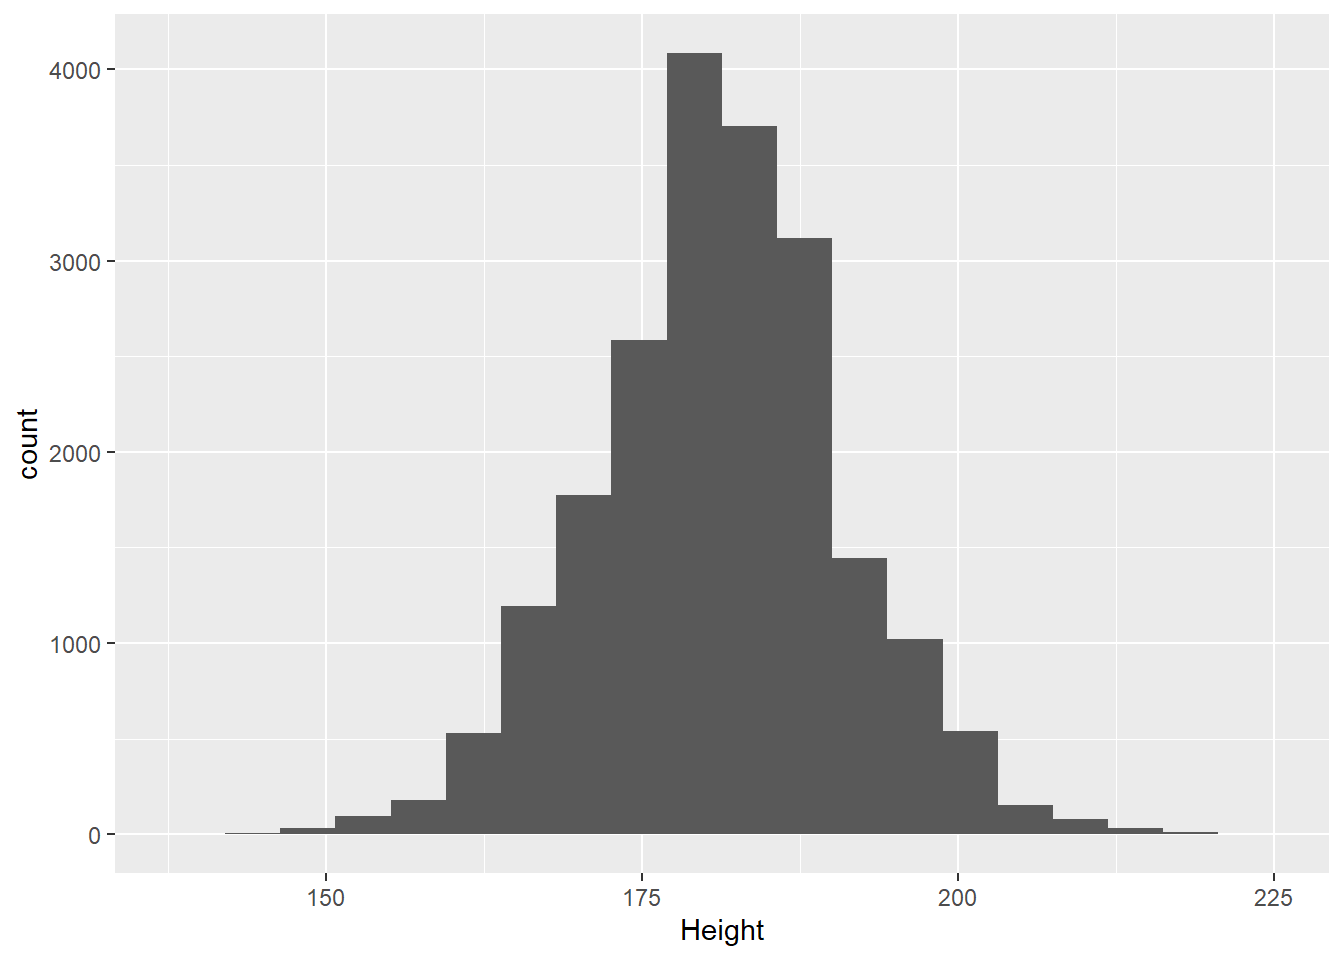
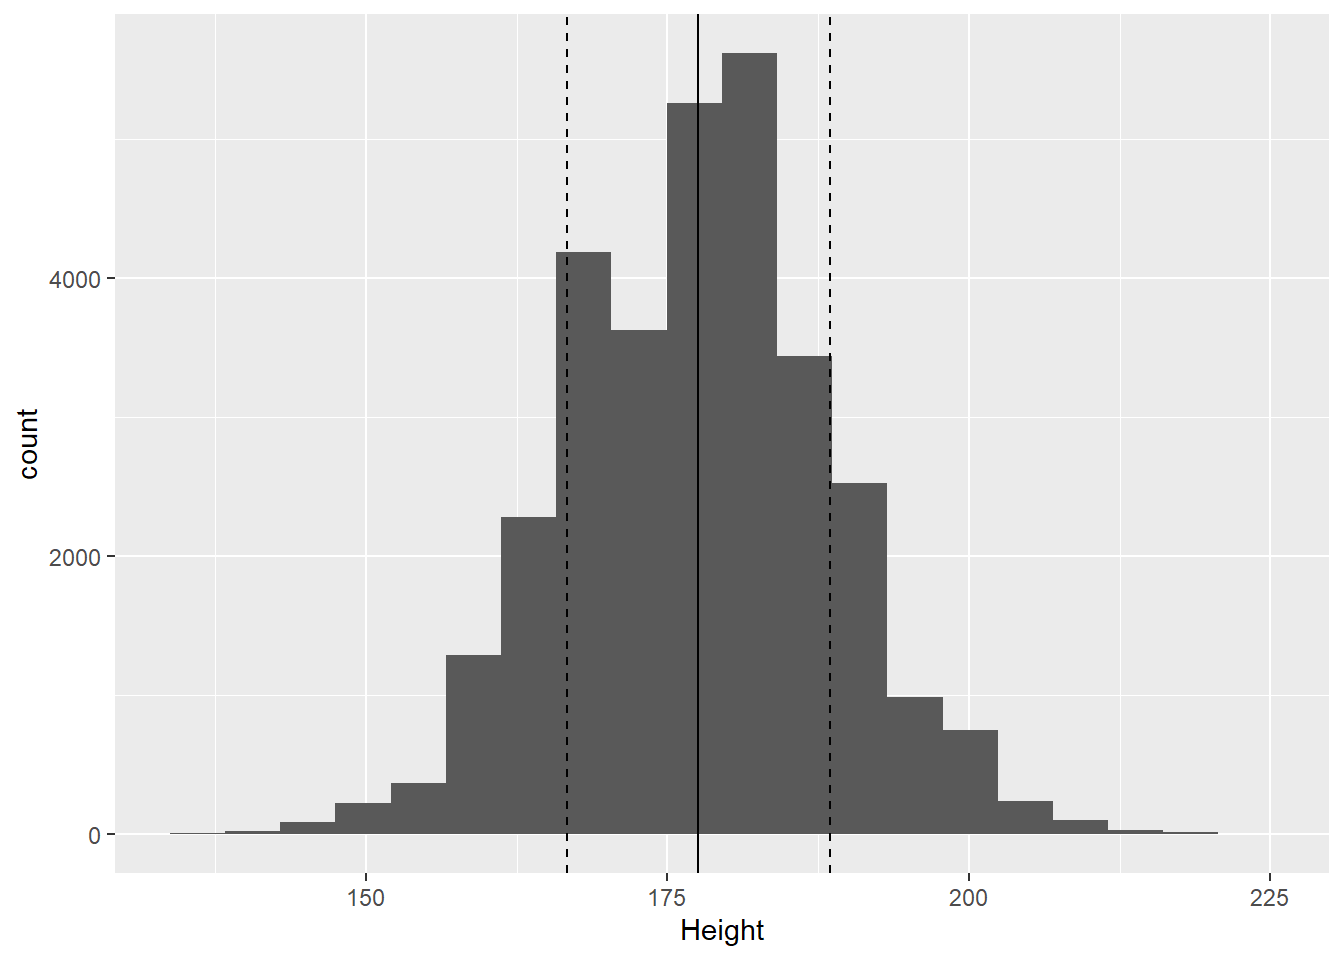
Add files via upload

diff --git a/env170/Summer2026/Week03/Lab04/02_OneVariable.html b/env170/Summer2026/Week03/Lab04/02_OneVariable.html
@@ -494,7 +494,7 @@ window.Quarto = {
 <pre><code>[1] 178</code></pre>
 </div>
 </div>
-<p>If we haven’t talked about it yet, the argument <code>na.rm</code> removes any NA values before running this function. This doesn’t actually delete them, but it just means that the function will skip over them. Some functions won’t work, or will produce unexpected results, if there are NA values present. Add this to the plot call above will remove the warning we’ve been getting:</p>
+<p>If we haven’t talked about it yet, the argument <code>na.rm</code> removes any NA values before running this function. This doesn’t actually delete them, but it just means that the function will skip over them. Some functions won’t work, or will produce unexpected results, if there are NA values present. Adding this to the <code>geom_histogram</code> function in plot we made above will remove the warning we’ve been getting:</p>
 <div class="cell">
 <div class="code-copy-outer-scaffold"><div class="sourceCode cell-code" id="cb11"><pre class="sourceCode r code-with-copy"><code class="sourceCode r"><span id="cb11-1"><a href="#cb11-1" aria-hidden="true" tabindex="-1"></a><span class="fu">ggplot</span>(olympics,<span class="fu">aes</span>(<span class="at">x=</span>Weight)) <span class="sc">+</span></span>
 <span id="cb11-2"><a href="#cb11-2" aria-hidden="true" tabindex="-1"></a>  <span class="fu">geom_histogram</span>(<span class="at">bins=</span><span class="dv">20</span>,<span class="at">na.rm=</span><span class="cn">TRUE</span>) </span></code></pre></div><button title="Copy to Clipboard" class="code-copy-button"><i class="bi"></i></button></div>
@@ -506,24 +506,36 @@ window.Quarto = {
 </div>
 </div>
 </div>
-<p><strong>Spread</strong></p>
-<p>A common measure of spread is variance, which is the average of the squared differences for each value from the mean value. Imagine if we only had</p>
-<p>To calulate variance, we use the <code>var</code> function:</p>
+<p>We can get the same effect globally by using the <code>drop_na</code> function at the start of the <code>ggplot</code> call. As written here, this will exclude all rows in the dataset where weight is NA :</p>
 <div class="cell">
-<div class="code-copy-outer-scaffold"><div class="sourceCode cell-code" id="cb12"><pre class="sourceCode r code-with-copy"><code class="sourceCode r"><span id="cb12-1"><a href="#cb12-1" aria-hidden="true" tabindex="-1"></a><span class="fu">var</span>(olympics<span class="sc">$</span>Weight,<span class="at">na.rm=</span><span class="cn">TRUE</span>)</span></code></pre></div><button title="Copy to Clipboard" class="code-copy-button"><i class="bi"></i></button></div>
+<div class="code-copy-outer-scaffold"><div class="sourceCode cell-code" id="cb12"><pre class="sourceCode r code-with-copy"><code class="sourceCode r"><span id="cb12-1"><a href="#cb12-1" aria-hidden="true" tabindex="-1"></a><span class="fu">ggplot</span>(<span class="fu">drop_na</span>(olympics,Weight),<span class="fu">aes</span>(<span class="at">x=</span>Weight)) <span class="sc">+</span></span>
+<span id="cb12-2"><a href="#cb12-2" aria-hidden="true" tabindex="-1"></a>  <span class="fu">geom_histogram</span>(<span class="at">bins=</span><span class="dv">20</span>) </span></code></pre></div><button title="Copy to Clipboard" class="code-copy-button"><i class="bi"></i></button></div>
+<div class="cell-output-display">
+<div>
+<figure class="figure">
+<p><img src="02_OneVariable_files/figure-html/unnamed-chunk-8-1.png" class="img-fluid figure-img" width="672"></p>
+</figure>
+</div>
+</div>
+</div>
+<p><strong>Spread</strong></p>
+<p>A common measure of spread is <strong>variance</strong>. Imagine if we were looking at the ages of children celebrating birthdays at a local bowling alley. During our survey, we observe three separate birthdays, and the cakes have 5, 8 and 9 candles, respectively. Our mean value would be 7.33333. Taking the difference between each of these might produce negative numbers (e.g., 7.33333 - 9); to get around this, we square each value. We then sum these values (8.66667), divide by the population size <em>n</em> (or, <a href="https://medium.com/data-science/bessels-correction-why-do-we-divide-by-n-1-instead-of-n-in-sample-variance-30b074503bd9">since it’s a sample</a>, n-1, which is 2), and just like that: we have the variance for ages of birthday celebrants at this bowling alley: 4.33333.</p>
+<p>To calculate variance, we use the <code>var</code> function. Let’s do this for athlete weights:</p>
+<div class="cell">
+<div class="code-copy-outer-scaffold"><div class="sourceCode cell-code" id="cb13"><pre class="sourceCode r code-with-copy"><code class="sourceCode r"><span id="cb13-1"><a href="#cb13-1" aria-hidden="true" tabindex="-1"></a><span class="fu">var</span>(olympics<span class="sc">$</span>Weight,<span class="at">na.rm=</span><span class="cn">TRUE</span>)</span></code></pre></div><button title="Copy to Clipboard" class="code-copy-button"><i class="bi"></i></button></div>
 <div class="cell-output cell-output-stdout">
 <pre><code>[1] 225.481</code></pre>
 </div>
 </div>
-<p>Variance is a relatively straightforward calculation to make, While this gives us a sense of how the values are spread, it is given in units different from the kilograms we were working in (here, it’s kg2, which is nonsensical). Variance is easy c</p>
-<p>Another metric most used when we want to understand spread in the same units is the standard deviation, which is just the square root of the variance. As seen in the darkest shaded area in the diagram above labeled <em>The standard normal distribution</em>, when we include the values up to 1 standard deviation above and below the mean, this works out to be the central most 68.2% of all values in the distribution.</p>
+<p>Variance is a reasonably straightforward calculation to make, and it has some particular virtues that make it useful for statistical testing. But while it gives us a sense of how the values are spread, it is given in units different from the kilograms we were working in (here, it’s squared kilograms). As such, it can sometime be hard to interpret intuitively.</p>
+<p>Another metric most used when we want to understand spread in the same units is the <strong>standard deviation</strong>, which is just the square root of the variance. As seen in the darkest shaded area in the diagram above labeled <em>The standard normal distribution</em>, when we include the values up to 1 standard deviation above and below the mean, this works out to be the central most 68.2% of all values in the distribution.</p>
 <p>We can access this value using the <code>sd</code> function, most often done in tandem with the mean:</p>
 <div class="cell">
-<div class="code-copy-outer-scaffold"><div class="sourceCode cell-code" id="cb14"><pre class="sourceCode r code-with-copy"><code class="sourceCode r"><span id="cb14-1"><a href="#cb14-1" aria-hidden="true" tabindex="-1"></a><span class="fu">mean</span>(olympics<span class="sc">$</span>Height,<span class="at">na.rm=</span><span class="cn">TRUE</span>)</span></code></pre></div><button title="Copy to Clipboard" class="code-copy-button"><i class="bi"></i></button></div>
+<div class="code-copy-outer-scaffold"><div class="sourceCode cell-code" id="cb15"><pre class="sourceCode r code-with-copy"><code class="sourceCode r"><span id="cb15-1"><a href="#cb15-1" aria-hidden="true" tabindex="-1"></a><span class="fu">mean</span>(olympics<span class="sc">$</span>Height,<span class="at">na.rm=</span><span class="cn">TRUE</span>)</span></code></pre></div><button title="Copy to Clipboard" class="code-copy-button"><i class="bi"></i></button></div>
 <div class="cell-output cell-output-stdout">
 <pre><code>[1] 177.5542</code></pre>
 </div>
-<div class="code-copy-outer-scaffold"><div class="sourceCode cell-code" id="cb16"><pre class="sourceCode r code-with-copy"><code class="sourceCode r"><span id="cb16-1"><a href="#cb16-1" aria-hidden="true" tabindex="-1"></a><span class="fu">sd</span>(olympics<span class="sc">$</span>Height,<span class="at">na.rm=</span><span class="cn">TRUE</span>)</span></code></pre></div><button title="Copy to Clipboard" class="code-copy-button"><i class="bi"></i></button></div>
+<div class="code-copy-outer-scaffold"><div class="sourceCode cell-code" id="cb17"><pre class="sourceCode r code-with-copy"><code class="sourceCode r"><span id="cb17-1"><a href="#cb17-1" aria-hidden="true" tabindex="-1"></a><span class="fu">sd</span>(olympics<span class="sc">$</span>Height,<span class="at">na.rm=</span><span class="cn">TRUE</span>)</span></code></pre></div><button title="Copy to Clipboard" class="code-copy-button"><i class="bi"></i></button></div>
 <div class="cell-output cell-output-stdout">
 <pre><code>[1] 10.89372</code></pre>
 </div>
@@ -538,18 +550,18 @@ window.Quarto = {
 <li><p>a dashed line at the upper standard deviation (mean + standard deviation)</p></li>
 </ul>
 <div class="cell">
-<div class="code-copy-outer-scaffold"><div class="sourceCode cell-code" id="cb18"><pre class="sourceCode r code-with-copy"><code class="sourceCode r"><span id="cb18-1"><a href="#cb18-1" aria-hidden="true" tabindex="-1"></a>meanHeight<span class="ot">&lt;-</span><span class="fu">mean</span>(olympics<span class="sc">$</span>Height,<span class="at">na.rm=</span><span class="cn">TRUE</span>)</span>
-<span id="cb18-2"><a href="#cb18-2" aria-hidden="true" tabindex="-1"></a>sdHeight<span class="ot">&lt;-</span><span class="fu">sd</span>(olympics<span class="sc">$</span>Height,<span class="at">na.rm=</span><span class="cn">TRUE</span>)</span>
-<span id="cb18-3"><a href="#cb18-3" aria-hidden="true" tabindex="-1"></a></span>
-<span id="cb18-4"><a href="#cb18-4" aria-hidden="true" tabindex="-1"></a><span class="fu">ggplot</span>(olympics,<span class="fu">aes</span>(<span class="at">x=</span>Height)) <span class="sc">+</span></span>
-<span id="cb18-5"><a href="#cb18-5" aria-hidden="true" tabindex="-1"></a>  <span class="fu">geom_histogram</span>(<span class="at">bins=</span><span class="dv">20</span>,<span class="at">na.rm=</span><span class="cn">TRUE</span>) <span class="sc">+</span></span>
-<span id="cb18-6"><a href="#cb18-6" aria-hidden="true" tabindex="-1"></a>  <span class="fu">geom_vline</span>(<span class="at">xintercept=</span>meanHeight) <span class="sc">+</span></span>
-<span id="cb18-7"><a href="#cb18-7" aria-hidden="true" tabindex="-1"></a>   <span class="fu">geom_vline</span>(<span class="at">xintercept=</span>meanHeight<span class="sc">-</span>sdHeight,<span class="at">linetype=</span><span class="dv">2</span>) <span class="sc">+</span></span>
-<span id="cb18-8"><a href="#cb18-8" aria-hidden="true" tabindex="-1"></a>  <span class="fu">geom_vline</span>(<span class="at">xintercept=</span>meanHeight<span class="sc">+</span>sdHeight,<span class="at">linetype=</span><span class="dv">2</span>)</span></code></pre></div><button title="Copy to Clipboard" class="code-copy-button"><i class="bi"></i></button></div>
+<div class="code-copy-outer-scaffold"><div class="sourceCode cell-code" id="cb19"><pre class="sourceCode r code-with-copy"><code class="sourceCode r"><span id="cb19-1"><a href="#cb19-1" aria-hidden="true" tabindex="-1"></a>meanHeight<span class="ot">&lt;-</span><span class="fu">mean</span>(olympics<span class="sc">$</span>Height,<span class="at">na.rm=</span><span class="cn">TRUE</span>)</span>
+<span id="cb19-2"><a href="#cb19-2" aria-hidden="true" tabindex="-1"></a>sdHeight<span class="ot">&lt;-</span><span class="fu">sd</span>(olympics<span class="sc">$</span>Height,<span class="at">na.rm=</span><span class="cn">TRUE</span>)</span>
+<span id="cb19-3"><a href="#cb19-3" aria-hidden="true" tabindex="-1"></a></span>
+<span id="cb19-4"><a href="#cb19-4" aria-hidden="true" tabindex="-1"></a><span class="fu">ggplot</span>(olympics,<span class="fu">aes</span>(<span class="at">x=</span>Height)) <span class="sc">+</span></span>
+<span id="cb19-5"><a href="#cb19-5" aria-hidden="true" tabindex="-1"></a>  <span class="fu">geom_histogram</span>(<span class="at">bins=</span><span class="dv">20</span>,<span class="at">na.rm=</span><span class="cn">TRUE</span>) <span class="sc">+</span></span>
+<span id="cb19-6"><a href="#cb19-6" aria-hidden="true" tabindex="-1"></a>  <span class="fu">geom_vline</span>(<span class="at">xintercept=</span>meanHeight) <span class="sc">+</span></span>
+<span id="cb19-7"><a href="#cb19-7" aria-hidden="true" tabindex="-1"></a>   <span class="fu">geom_vline</span>(<span class="at">xintercept=</span>meanHeight<span class="sc">-</span>sdHeight,<span class="at">linetype=</span><span class="dv">2</span>) <span class="sc">+</span></span>
+<span id="cb19-8"><a href="#cb19-8" aria-hidden="true" tabindex="-1"></a>  <span class="fu">geom_vline</span>(<span class="at">xintercept=</span>meanHeight<span class="sc">+</span>sdHeight,<span class="at">linetype=</span><span class="dv">2</span>)</span></code></pre></div><button title="Copy to Clipboard" class="code-copy-button"><i class="bi"></i></button></div>
 <div class="cell-output-display">
 <div>
 <figure class="figure">
-<p><img src="02_OneVariable_files/figure-html/unnamed-chunk-10-1.png" class="img-fluid figure-img" width="672"></p>
+<p><img src="02_OneVariable_files/figure-html/unnamed-chunk-11-1.png" class="img-fluid figure-img" width="672"></p>
 </figure>
 </div>
 </div>
@@ -573,14 +585,14 @@ Can you modify the code above to add blue dashed lines at two standard deviation
 <p>Another way to look at spread is the interquartile range, or IQR for short. This is the range covered by the half of the data closest to the median; in other words, the middle 50%. You’ve seen this visualized in a boxplot: the IQR is the distance between the uppermost and lowermost edges of the box part of the plot.</p>
 <p>The <code>IQR</code> function gives this distance:</p>
 <div class="cell">
-<div class="code-copy-outer-scaffold"><div class="sourceCode cell-code" id="cb19"><pre class="sourceCode r code-with-copy"><code class="sourceCode r"><span id="cb19-1"><a href="#cb19-1" aria-hidden="true" tabindex="-1"></a><span class="fu">IQR</span>(olympics<span class="sc">$</span>Height,<span class="at">na.rm=</span><span class="cn">TRUE</span>)</span></code></pre></div><button title="Copy to Clipboard" class="code-copy-button"><i class="bi"></i></button></div>
+<div class="code-copy-outer-scaffold"><div class="sourceCode cell-code" id="cb20"><pre class="sourceCode r code-with-copy"><code class="sourceCode r"><span id="cb20-1"><a href="#cb20-1" aria-hidden="true" tabindex="-1"></a><span class="fu">IQR</span>(olympics<span class="sc">$</span>Height,<span class="at">na.rm=</span><span class="cn">TRUE</span>)</span></code></pre></div><button title="Copy to Clipboard" class="code-copy-button"><i class="bi"></i></button></div>
 <div class="cell-output cell-output-stdout">
 <pre><code>[1] 15</code></pre>
 </div>
 </div>
 <p>This tells us that there is a difference of 15 centimeters among the middle 50% of olympic medalists in this table. However, if you wanted to get values at 0, 25, 50, 75, and 100%, you can use the <code>quantile</code> function:</p>
 <div class="cell">
-<div class="code-copy-outer-scaffold"><div class="sourceCode cell-code" id="cb21"><pre class="sourceCode r code-with-copy"><code class="sourceCode r"><span id="cb21-1"><a href="#cb21-1" aria-hidden="true" tabindex="-1"></a><span class="fu">quantile</span>(olympics<span class="sc">$</span>Height,<span class="at">na.rm=</span><span class="cn">TRUE</span>)</span></code></pre></div><button title="Copy to Clipboard" class="code-copy-button"><i class="bi"></i></button></div>
+<div class="code-copy-outer-scaffold"><div class="sourceCode cell-code" id="cb22"><pre class="sourceCode r code-with-copy"><code class="sourceCode r"><span id="cb22-1"><a href="#cb22-1" aria-hidden="true" tabindex="-1"></a><span class="fu">quantile</span>(olympics<span class="sc">$</span>Height,<span class="at">na.rm=</span><span class="cn">TRUE</span>)</span></code></pre></div><button title="Copy to Clipboard" class="code-copy-button"><i class="bi"></i></button></div>
 <div class="cell-output cell-output-stdout">
 <pre><code>  0%  25%  50%  75% 100% 
  136  170  178  185  223 </code></pre>
@@ -613,22 +625,10 @@ Can you modify the code above to add blue dashed lines at two standard deviation
 <p><strong>Skew</strong></p>
 <p>Skew indicates whether the data are evenly spread around the center or have values that are notably larger (positive skew) or smaller (negative skew). For example, if we look at heights among male Olympians:</p>
 <div class="cell">
-<div class="code-copy-outer-scaffold"><div class="sourceCode cell-code" id="cb23"><pre class="sourceCode r code-with-copy"><code class="sourceCode r"><span id="cb23-1"><a href="#cb23-1" aria-hidden="true" tabindex="-1"></a>olympicsM<span class="ot">&lt;-</span>olympics[olympics<span class="sc">$</span>Sex<span class="sc">==</span><span class="st">"M"</span>,]</span>
-<span id="cb23-2"><a href="#cb23-2" aria-hidden="true" tabindex="-1"></a></span>
-<span id="cb23-3"><a href="#cb23-3" aria-hidden="true" tabindex="-1"></a><span class="fu">ggplot</span>(olympicsM,<span class="fu">aes</span>(<span class="at">x=</span>Height)) <span class="sc">+</span></span>
-<span id="cb23-4"><a href="#cb23-4" aria-hidden="true" tabindex="-1"></a>  <span class="fu">geom_histogram</span>(<span class="at">bins=</span><span class="dv">20</span>,<span class="at">na.rm=</span><span class="cn">TRUE</span>) </span></code></pre></div><button title="Copy to Clipboard" class="code-copy-button"><i class="bi"></i></button></div>
-<div class="cell-output-display">
-<div>
-<figure class="figure">
-<p><img src="02_OneVariable_files/figure-html/unnamed-chunk-13-1.png" class="img-fluid figure-img" width="672"></p>
-</figure>
-</div>
-</div>
-</div>
-<p>We can see these are pretty evenly distributed around an average height value. If we look at weight, on the other hand:</p>
-<div class="cell">
-<div class="code-copy-outer-scaffold"><div class="sourceCode cell-code" id="cb24"><pre class="sourceCode r code-with-copy"><code class="sourceCode r"><span id="cb24-1"><a href="#cb24-1" aria-hidden="true" tabindex="-1"></a><span class="fu">ggplot</span>(olympicsM,<span class="fu">aes</span>(<span class="at">x=</span>Weight)) <span class="sc">+</span></span>
-<span id="cb24-2"><a href="#cb24-2" aria-hidden="true" tabindex="-1"></a>  <span class="fu">geom_histogram</span>(<span class="at">bins=</span><span class="dv">20</span>,<span class="at">na.rm=</span><span class="cn">TRUE</span>) </span></code></pre></div><button title="Copy to Clipboard" class="code-copy-button"><i class="bi"></i></button></div>
+<div class="code-copy-outer-scaffold"><div class="sourceCode cell-code" id="cb24"><pre class="sourceCode r code-with-copy"><code class="sourceCode r"><span id="cb24-1"><a href="#cb24-1" aria-hidden="true" tabindex="-1"></a>olympicsM<span class="ot">&lt;-</span>olympics[olympics<span class="sc">$</span>Sex<span class="sc">==</span><span class="st">"M"</span>,]</span>
+<span id="cb24-2"><a href="#cb24-2" aria-hidden="true" tabindex="-1"></a></span>
+<span id="cb24-3"><a href="#cb24-3" aria-hidden="true" tabindex="-1"></a><span class="fu">ggplot</span>(olympicsM,<span class="fu">aes</span>(<span class="at">x=</span>Height)) <span class="sc">+</span></span>
+<span id="cb24-4"><a href="#cb24-4" aria-hidden="true" tabindex="-1"></a>  <span class="fu">geom_histogram</span>(<span class="at">bins=</span><span class="dv">20</span>,<span class="at">na.rm=</span><span class="cn">TRUE</span>) </span></code></pre></div><button title="Copy to Clipboard" class="code-copy-button"><i class="bi"></i></button></div>
 <div class="cell-output-display">
 <div>
 <figure class="figure">
@@ -637,18 +637,30 @@ Can you modify the code above to add blue dashed lines at two standard deviation
 </div>
 </div>
 </div>
-<p>We see slightly positive skew in these values, indicated by the x-axis carrying on to the right. This skew can be further illustrated by plotting the mean and median on this plot. In a normal distribution, these two measures will be the same; however, the more skewed a distribution is, the greater the separation between them.</p>
+<p>We can see these are pretty evenly distributed around an average height value. If we look at weight, on the other hand:</p>
 <div class="cell">
-<div class="code-copy-outer-scaffold"><div class="sourceCode cell-code" id="cb25"><pre class="sourceCode r code-with-copy"><code class="sourceCode r"><span id="cb25-1"><a href="#cb25-1" aria-hidden="true" tabindex="-1"></a>meanWeight<span class="ot">&lt;-</span><span class="fu">mean</span>(olympicsM<span class="sc">$</span>Weight,<span class="at">na.rm=</span><span class="cn">TRUE</span>)</span>
-<span id="cb25-2"><a href="#cb25-2" aria-hidden="true" tabindex="-1"></a>medianWeight<span class="ot">&lt;-</span><span class="fu">median</span>(olympicsM<span class="sc">$</span>Weight,<span class="at">na.rm=</span><span class="cn">TRUE</span>)</span>
-<span id="cb25-3"><a href="#cb25-3" aria-hidden="true" tabindex="-1"></a><span class="fu">ggplot</span>(olympicsM,<span class="fu">aes</span>(<span class="at">x=</span>Weight)) <span class="sc">+</span></span>
-<span id="cb25-4"><a href="#cb25-4" aria-hidden="true" tabindex="-1"></a>  <span class="fu">geom_histogram</span>(<span class="at">bins=</span><span class="dv">20</span>,<span class="at">na.rm=</span><span class="cn">TRUE</span>) <span class="sc">+</span></span>
-<span id="cb25-5"><a href="#cb25-5" aria-hidden="true" tabindex="-1"></a>  <span class="fu">geom_vline</span>(<span class="at">xintercept=</span>meanWeight,<span class="at">color=</span><span class="st">"blue"</span>)<span class="sc">+</span></span>
-<span id="cb25-6"><a href="#cb25-6" aria-hidden="true" tabindex="-1"></a>  <span class="fu">geom_vline</span>(<span class="at">xintercept=</span>medianWeight,<span class="at">color=</span><span class="st">"red"</span>)</span></code></pre></div><button title="Copy to Clipboard" class="code-copy-button"><i class="bi"></i></button></div>
+<div class="code-copy-outer-scaffold"><div class="sourceCode cell-code" id="cb25"><pre class="sourceCode r code-with-copy"><code class="sourceCode r"><span id="cb25-1"><a href="#cb25-1" aria-hidden="true" tabindex="-1"></a><span class="fu">ggplot</span>(olympicsM,<span class="fu">aes</span>(<span class="at">x=</span>Weight)) <span class="sc">+</span></span>
+<span id="cb25-2"><a href="#cb25-2" aria-hidden="true" tabindex="-1"></a>  <span class="fu">geom_histogram</span>(<span class="at">bins=</span><span class="dv">20</span>,<span class="at">na.rm=</span><span class="cn">TRUE</span>) </span></code></pre></div><button title="Copy to Clipboard" class="code-copy-button"><i class="bi"></i></button></div>
 <div class="cell-output-display">
 <div>
 <figure class="figure">
 <p><img src="02_OneVariable_files/figure-html/unnamed-chunk-15-1.png" class="img-fluid figure-img" width="672"></p>
+</figure>
+</div>
+</div>
+</div>
+<p>We see slightly positive skew in these values, indicated by the x-axis carrying on to the right. This skew can be further illustrated by plotting the mean and median on this plot. In a normal distribution, these two measures will be the same; however, the more skewed a distribution is, the greater the separation between them.</p>
+<div class="cell">
+<div class="code-copy-outer-scaffold"><div class="sourceCode cell-code" id="cb26"><pre class="sourceCode r code-with-copy"><code class="sourceCode r"><span id="cb26-1"><a href="#cb26-1" aria-hidden="true" tabindex="-1"></a>meanWeight<span class="ot">&lt;-</span><span class="fu">mean</span>(olympicsM<span class="sc">$</span>Weight,<span class="at">na.rm=</span><span class="cn">TRUE</span>)</span>
+<span id="cb26-2"><a href="#cb26-2" aria-hidden="true" tabindex="-1"></a>medianWeight<span class="ot">&lt;-</span><span class="fu">median</span>(olympicsM<span class="sc">$</span>Weight,<span class="at">na.rm=</span><span class="cn">TRUE</span>)</span>
+<span id="cb26-3"><a href="#cb26-3" aria-hidden="true" tabindex="-1"></a><span class="fu">ggplot</span>(olympicsM,<span class="fu">aes</span>(<span class="at">x=</span>Weight)) <span class="sc">+</span></span>
+<span id="cb26-4"><a href="#cb26-4" aria-hidden="true" tabindex="-1"></a>  <span class="fu">geom_histogram</span>(<span class="at">bins=</span><span class="dv">20</span>,<span class="at">na.rm=</span><span class="cn">TRUE</span>) <span class="sc">+</span></span>
+<span id="cb26-5"><a href="#cb26-5" aria-hidden="true" tabindex="-1"></a>  <span class="fu">geom_vline</span>(<span class="at">xintercept=</span>meanWeight,<span class="at">color=</span><span class="st">"blue"</span>)<span class="sc">+</span></span>
+<span id="cb26-6"><a href="#cb26-6" aria-hidden="true" tabindex="-1"></a>  <span class="fu">geom_vline</span>(<span class="at">xintercept=</span>medianWeight,<span class="at">color=</span><span class="st">"red"</span>)</span></code></pre></div><button title="Copy to Clipboard" class="code-copy-button"><i class="bi"></i></button></div>
+<div class="cell-output-display">
+<div>
+<figure class="figure">
+<p><img src="02_OneVariable_files/figure-html/unnamed-chunk-16-1.png" class="img-fluid figure-img" width="672"></p>
 </figure>
 </div>
 </div>
@@ -659,16 +671,16 @@ Can you modify the code above to add blue dashed lines at two standard deviation
 <p>One goal of an exploratory data analysis is to find patterns that might inform on a question , or prompt new questions. Let’s</p>
 <p>This time, we’ll examine the data for female Olympic athletes:</p>
 <div class="cell">
-<div class="code-copy-outer-scaffold"><div class="sourceCode cell-code" id="cb26"><pre class="sourceCode r code-with-copy"><code class="sourceCode r"><span id="cb26-1"><a href="#cb26-1" aria-hidden="true" tabindex="-1"></a>olympicsF<span class="ot">&lt;-</span>olympics[olympics<span class="sc">$</span>Sex<span class="sc">==</span><span class="st">"F"</span>,]</span></code></pre></div><button title="Copy to Clipboard" class="code-copy-button"><i class="bi"></i></button></div>
+<div class="code-copy-outer-scaffold"><div class="sourceCode cell-code" id="cb27"><pre class="sourceCode r code-with-copy"><code class="sourceCode r"><span id="cb27-1"><a href="#cb27-1" aria-hidden="true" tabindex="-1"></a>olympicsF<span class="ot">&lt;-</span>olympics[olympics<span class="sc">$</span>Sex<span class="sc">==</span><span class="st">"F"</span>,]</span></code></pre></div><button title="Copy to Clipboard" class="code-copy-button"><i class="bi"></i></button></div>
 </div>
 <p>Height can be an <a href="https://en.wikipedia.org/wiki/Height_in_sports">important factor in sports performance</a>. Olympic gymnasts, for example, are often noted for their short stature; shorter athletes have a lower center of gravity, which can help when performing acrobatic elements. Are Olympic gymnasts shorter on average? We can answer this with by subsetting our data to just female gymnasts and taking a quick look at the descriptive statistics:</p>
 <div class="cell">
-<div class="code-copy-outer-scaffold"><div class="sourceCode cell-code" id="cb27"><pre class="sourceCode r code-with-copy"><code class="sourceCode r"><span id="cb27-1"><a href="#cb27-1" aria-hidden="true" tabindex="-1"></a>olympicsFGym<span class="ot">&lt;-</span>olympicsF[olympicsF<span class="sc">$</span>Sport<span class="sc">==</span><span class="st">"Gymnastics"</span>,]</span>
-<span id="cb27-2"><a href="#cb27-2" aria-hidden="true" tabindex="-1"></a><span class="fu">mean</span>(olympicsFGym<span class="sc">$</span>Height,<span class="at">na.rm=</span><span class="cn">TRUE</span>)</span></code></pre></div><button title="Copy to Clipboard" class="code-copy-button"><i class="bi"></i></button></div>
+<div class="code-copy-outer-scaffold"><div class="sourceCode cell-code" id="cb28"><pre class="sourceCode r code-with-copy"><code class="sourceCode r"><span id="cb28-1"><a href="#cb28-1" aria-hidden="true" tabindex="-1"></a>olympicsFGym<span class="ot">&lt;-</span>olympicsF[olympicsF<span class="sc">$</span>Sport<span class="sc">==</span><span class="st">"Gymnastics"</span>,]</span>
+<span id="cb28-2"><a href="#cb28-2" aria-hidden="true" tabindex="-1"></a><span class="fu">mean</span>(olympicsFGym<span class="sc">$</span>Height,<span class="at">na.rm=</span><span class="cn">TRUE</span>)</span></code></pre></div><button title="Copy to Clipboard" class="code-copy-button"><i class="bi"></i></button></div>
 <div class="cell-output cell-output-stdout">
 <pre><code>[1] 155.0744</code></pre>
 </div>
-<div class="code-copy-outer-scaffold"><div class="sourceCode cell-code" id="cb29"><pre class="sourceCode r code-with-copy"><code class="sourceCode r"><span id="cb29-1"><a href="#cb29-1" aria-hidden="true" tabindex="-1"></a><span class="fu">sd</span>(olympicsFGym<span class="sc">$</span>Height,<span class="at">na.rm=</span><span class="cn">TRUE</span>)</span></code></pre></div><button title="Copy to Clipboard" class="code-copy-button"><i class="bi"></i></button></div>
+<div class="code-copy-outer-scaffold"><div class="sourceCode cell-code" id="cb30"><pre class="sourceCode r code-with-copy"><code class="sourceCode r"><span id="cb30-1"><a href="#cb30-1" aria-hidden="true" tabindex="-1"></a><span class="fu">sd</span>(olympicsFGym<span class="sc">$</span>Height,<span class="at">na.rm=</span><span class="cn">TRUE</span>)</span></code></pre></div><button title="Copy to Clipboard" class="code-copy-button"><i class="bi"></i></button></div>
 <div class="cell-output cell-output-stdout">
 <pre><code>[1] 7.093379</code></pre>
 </div>
@@ -676,31 +688,31 @@ Can you modify the code above to add blue dashed lines at two standard deviation
 <p>This mean value is below the global average (~161.5 cm), suggesting that, overall, female Olympic gymnasts are generally shorter than the wider population. We also see that the standard deviation here is 7 cms, suggesting that 68.3% fall within a range roughly between 148 and 162 cm.</p>
 <p>How does this compare to other sports? For basketball, elite athletes tend to be taller than average. Does this bear out in the data?</p>
 <div class="cell">
-<div class="code-copy-outer-scaffold"><div class="sourceCode cell-code" id="cb31"><pre class="sourceCode r code-with-copy"><code class="sourceCode r"><span id="cb31-1"><a href="#cb31-1" aria-hidden="true" tabindex="-1"></a>olympicsFBball<span class="ot">&lt;-</span>olympicsF[olympicsF<span class="sc">$</span>Sport<span class="sc">==</span><span class="st">"Basketball"</span>,]</span>
-<span id="cb31-2"><a href="#cb31-2" aria-hidden="true" tabindex="-1"></a><span class="fu">mean</span>(olympicsFBball<span class="sc">$</span>Height,<span class="at">na.rm=</span><span class="cn">TRUE</span>)</span></code></pre></div><button title="Copy to Clipboard" class="code-copy-button"><i class="bi"></i></button></div>
+<div class="code-copy-outer-scaffold"><div class="sourceCode cell-code" id="cb32"><pre class="sourceCode r code-with-copy"><code class="sourceCode r"><span id="cb32-1"><a href="#cb32-1" aria-hidden="true" tabindex="-1"></a>olympicsFBball<span class="ot">&lt;-</span>olympicsF[olympicsF<span class="sc">$</span>Sport<span class="sc">==</span><span class="st">"Basketball"</span>,]</span>
+<span id="cb32-2"><a href="#cb32-2" aria-hidden="true" tabindex="-1"></a><span class="fu">mean</span>(olympicsFBball<span class="sc">$</span>Height,<span class="at">na.rm=</span><span class="cn">TRUE</span>)</span></code></pre></div><button title="Copy to Clipboard" class="code-copy-button"><i class="bi"></i></button></div>
 <div class="cell-output cell-output-stdout">
 <pre><code>[1] 183.0102</code></pre>
 </div>
-<div class="code-copy-outer-scaffold"><div class="sourceCode cell-code" id="cb33"><pre class="sourceCode r code-with-copy"><code class="sourceCode r"><span id="cb33-1"><a href="#cb33-1" aria-hidden="true" tabindex="-1"></a><span class="fu">sd</span>(olympicsFBball<span class="sc">$</span>Height,<span class="at">na.rm=</span><span class="cn">TRUE</span>)</span></code></pre></div><button title="Copy to Clipboard" class="code-copy-button"><i class="bi"></i></button></div>
+<div class="code-copy-outer-scaffold"><div class="sourceCode cell-code" id="cb34"><pre class="sourceCode r code-with-copy"><code class="sourceCode r"><span id="cb34-1"><a href="#cb34-1" aria-hidden="true" tabindex="-1"></a><span class="fu">sd</span>(olympicsFBball<span class="sc">$</span>Height,<span class="at">na.rm=</span><span class="cn">TRUE</span>)</span></code></pre></div><button title="Copy to Clipboard" class="code-copy-button"><i class="bi"></i></button></div>
 <div class="cell-output cell-output-stdout">
 <pre><code>[1] 9.677136</code></pre>
 </div>
 </div>
-<p>As we would expect, most Olympic basketball players are taller on average. However, the distribution of heights among basketball players covers a wider range than that of gymnasts, suggesting that, at least in our sample, there is a wider range of heights among them.</p>
-<p>To compare the two sports, since we’ve already created two subsets, we can</p>
+<p>As we would expect, most Olympic basketball players are taller on average. However, the distribution of heights among basketball players covers a wider range than that of gymnasts.</p>
+<p>To compare the two sports visually, since we’ve already created two subsets, we can plot these as individual histogram geoms within a <code>ggplot</code> call:</p>
 <div class="cell">
-<div class="code-copy-outer-scaffold"><div class="sourceCode cell-code" id="cb35"><pre class="sourceCode r code-with-copy"><code class="sourceCode r"><span id="cb35-1"><a href="#cb35-1" aria-hidden="true" tabindex="-1"></a><span class="fu">ggplot</span>()<span class="sc">+</span></span>
-<span id="cb35-2"><a href="#cb35-2" aria-hidden="true" tabindex="-1"></a>  <span class="fu">geom_histogram</span>(<span class="at">data=</span>olympicsFGym,<span class="fu">aes</span>(<span class="at">x=</span>Height),<span class="at">na.rm=</span><span class="cn">TRUE</span>,<span class="at">fill=</span><span class="st">"magenta"</span>,<span class="at">alpha=</span><span class="fl">0.5</span>,<span class="at">binwidth=</span><span class="dv">1</span>) <span class="sc">+</span></span>
-<span id="cb35-3"><a href="#cb35-3" aria-hidden="true" tabindex="-1"></a>  <span class="fu">geom_histogram</span>(<span class="at">data=</span>olympicsFBball,<span class="fu">aes</span>(<span class="at">x=</span>Height),<span class="at">na.rm=</span><span class="cn">TRUE</span>,<span class="at">fill=</span><span class="st">"darkgreen"</span>,<span class="at">alpha=</span><span class="fl">0.5</span>,<span class="at">binwidth=</span><span class="dv">1</span>) </span></code></pre></div><button title="Copy to Clipboard" class="code-copy-button"><i class="bi"></i></button></div>
+<div class="code-copy-outer-scaffold"><div class="sourceCode cell-code" id="cb36"><pre class="sourceCode r code-with-copy"><code class="sourceCode r"><span id="cb36-1"><a href="#cb36-1" aria-hidden="true" tabindex="-1"></a><span class="fu">ggplot</span>()<span class="sc">+</span></span>
+<span id="cb36-2"><a href="#cb36-2" aria-hidden="true" tabindex="-1"></a>  <span class="fu">geom_histogram</span>(<span class="at">data=</span>olympicsFGym,<span class="fu">aes</span>(<span class="at">x=</span>Height),<span class="at">na.rm=</span><span class="cn">TRUE</span>,<span class="at">fill=</span><span class="st">"magenta"</span>,<span class="at">alpha=</span><span class="fl">0.5</span>,<span class="at">binwidth=</span><span class="dv">1</span>) <span class="sc">+</span></span>
+<span id="cb36-3"><a href="#cb36-3" aria-hidden="true" tabindex="-1"></a>  <span class="fu">geom_histogram</span>(<span class="at">data=</span>olympicsFBball,<span class="fu">aes</span>(<span class="at">x=</span>Height),<span class="at">na.rm=</span><span class="cn">TRUE</span>,<span class="at">fill=</span><span class="st">"darkgreen"</span>,<span class="at">alpha=</span><span class="fl">0.5</span>,<span class="at">binwidth=</span><span class="dv">1</span>) </span></code></pre></div><button title="Copy to Clipboard" class="code-copy-button"><i class="bi"></i></button></div>
 <div class="cell-output-display">
 <div>
 <figure class="figure">
-<p><img src="02_OneVariable_files/figure-html/unnamed-chunk-19-1.png" class="img-fluid figure-img" width="672"></p>
+<p><img src="02_OneVariable_files/figure-html/unnamed-chunk-20-1.png" class="img-fluid figure-img" width="672"></p>
 </figure>
 </div>
 </div>
 </div>
-<p>This might be explained by differences in the range of heights among participating nations, or that being close to a specific height is not as</p>
+<p>Here, we’ve used the alpha argument to make the bars semi transparent. We can see in the histograms that basketball players are both taller overall and have a wider range of heights than gymnasts.</p>
 <div class="callout callout-style-default callout-tip callout-titled">
 <div class="callout-header d-flex align-content-center">
 <div class="callout-icon-container">

diff --git a/env170/Summer2026/Week03/Lab04/01_WhyDoEDA.html b/env170/Summer2026/Week03/Lab04/01_WhyDoEDA.html
@@ -494,7 +494,7 @@ dbl (4): Age, Height, Weight, Year
 </div>
 </div>
 </div>
-<p>Now the medals are re-ordered based on their frequency, but this order doesn’t make sense with respect to the Gold &gt; Silver &gt; Bronze ordering inherent in Olympic medals. To deal with this, we can use the <code>fct_relevel</code> function.</p>
+<p>Now the medals are re-ordered based on their frequency, but this order doesn’t make sense with respect to the Gold &gt; Silver &gt; Bronze ordering inherent in Olympic medals (unless you’re thinking about <a href="https://www.olympics.com/ioc/news/the-olympic-podium-is-born">medal podium ordering</a>). To deal with this, we can use the <code>fct_relevel</code> function.</p>
 <div class="cell">
 <div class="code-copy-outer-scaffold"><div class="sourceCode cell-code" id="cb9"><pre class="sourceCode r code-with-copy"><code class="sourceCode r"><span id="cb9-1"><a href="#cb9-1" aria-hidden="true" tabindex="-1"></a><span class="fu">ggplot</span>(olympicsDEN,<span class="fu">aes</span>(<span class="at">x=</span><span class="fu">fct_relevel</span>(Medal,<span class="st">"Gold"</span>,<span class="st">"Silver"</span>,<span class="st">"Bronze"</span>))) <span class="sc">+</span></span>
 <span id="cb9-2"><a href="#cb9-2" aria-hidden="true" tabindex="-1"></a>  <span class="fu">geom_bar</span>()</span></code></pre></div><button title="Copy to Clipboard" class="code-copy-button"><i class="bi"></i></button></div>
@@ -507,7 +507,7 @@ dbl (4): Age, Height, Weight, Year
 </div>
 </div>
 <p>Here, the function takes as an argument the variable name, followed by the list of values in the correct order. Unlike <code>fct_infreq</code>, which reorders based on frequency of occurrence, or <code>fct_reorder</code>, which reorders on another variable, <code>fct_relevel</code> reorders based on a known, inherent order in the data, which in R we call a factor’s <em>levels</em>.</p>
-<p>Now our medals are listed in the correct order, but of course this has messed with our x-axis label. Using proper labelsisn’t necessary when you’re just looking at data by yourself as long as you know what the variables are, but is important when you’re using graphics to communicate with someone else. If we wanted to change the labels, we can add a <code>labs</code> layer:</p>
+<p>Now our medals are listed in the correct order, but of course this has messed with our x-axis label. Using proper labels isn’t necessary when you’re just looking at data by yourself as long as you know what the variables are, but is important when you’re using graphics to communicate with someone else. If we wanted to change the labels, we can add a <code>labs</code> layer:</p>
 <div class="cell">
 <div class="code-copy-outer-scaffold"><div class="sourceCode cell-code" id="cb10"><pre class="sourceCode r code-with-copy"><code class="sourceCode r"><span id="cb10-1"><a href="#cb10-1" aria-hidden="true" tabindex="-1"></a><span class="fu">ggplot</span>(olympicsDEN,<span class="fu">aes</span>(<span class="at">x=</span><span class="fu">fct_relevel</span>(Medal,<span class="st">"Gold"</span>,<span class="st">"Silver"</span>,<span class="st">"Bronze"</span>))) <span class="sc">+</span></span>
 <span id="cb10-2"><a href="#cb10-2" aria-hidden="true" tabindex="-1"></a>  <span class="fu">geom_bar</span>() <span class="sc">+</span></span>
@@ -520,7 +520,7 @@ dbl (4): Age, Height, Weight, Year
 </div>
 </div>
 </div>
-<p>Beyond visualization, there are certain statistical tests designed for dealing with categorical and ranked data. We’ll touch on these in a later lecture.</p>
+<p>Beyond visualization, there are certain statistical tests designed for dealing with categorical and ranked data that can help us discern whether. We’ll touch on these in a later lecture.</p>
 </section>
 <section id="interval-and-ratio" class="level4">
 <h4 class="anchored" data-anchor-id="interval-and-ratio">Interval and Ratio</h4>
@@ -563,7 +563,7 @@ dbl (3): Times_Hosted, Latitude, Longitude
 <li><p>Weight</p></li>
 <li><p>Age</p></li>
 </ul>
-<p>Interestingly, these are given as integer values, which are discrete. However, any of these could have given as continuous values, such as 175.34 cm. But it is often convention, particularly with age, to use integer values.</p>
+<p>Interestingly, these are given as integer values, which are discrete. However, any of these <em>could</em> have been given as continuous values, such as 175.34 cm. But it is often convention, particularly with age, to use integer values.</p>
 <p>When we’re looking at interval and ratio data, the most common way to represent this kind of data visually is a histogram.</p>
 <div class="cell">
 <div class="code-copy-outer-scaffold"><div class="sourceCode cell-code" id="cb15"><pre class="sourceCode r code-with-copy"><code class="sourceCode r"><span id="cb15-1"><a href="#cb15-1" aria-hidden="true" tabindex="-1"></a><span class="fu">ggplot</span>(olympics,<span class="fu">aes</span>(<span class="at">x=</span>Weight)) <span class="sc">+</span></span>